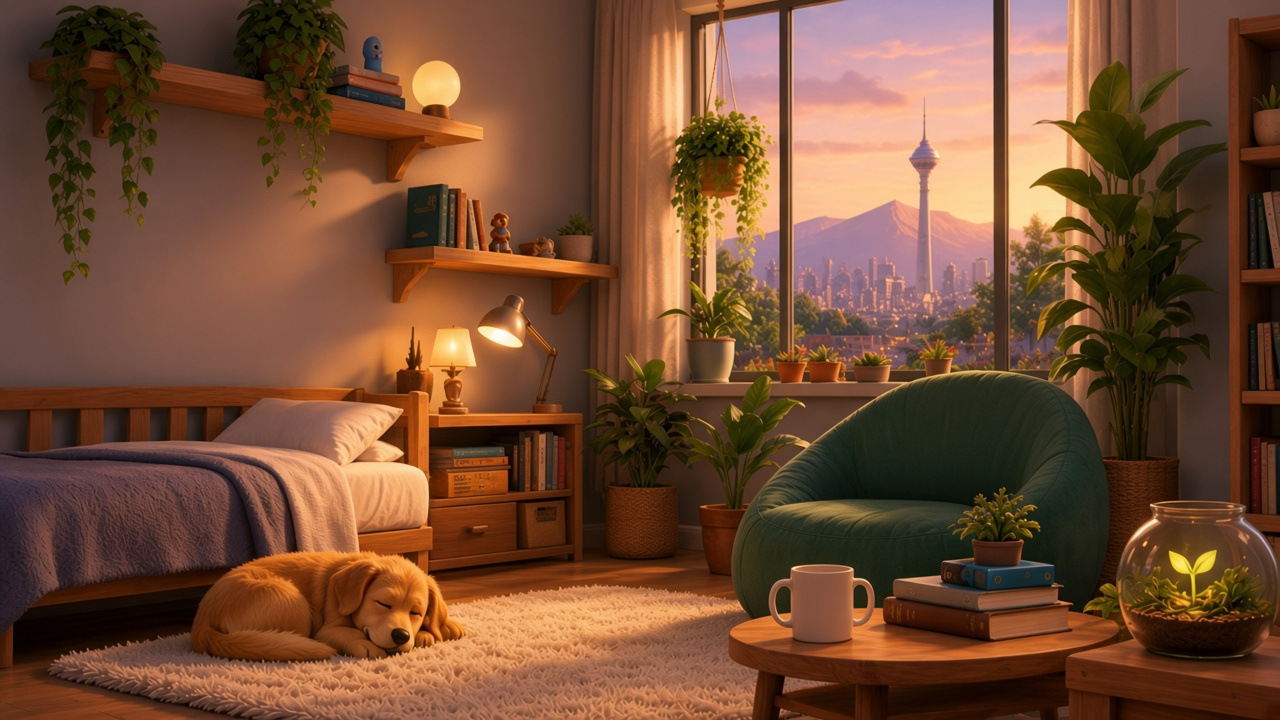
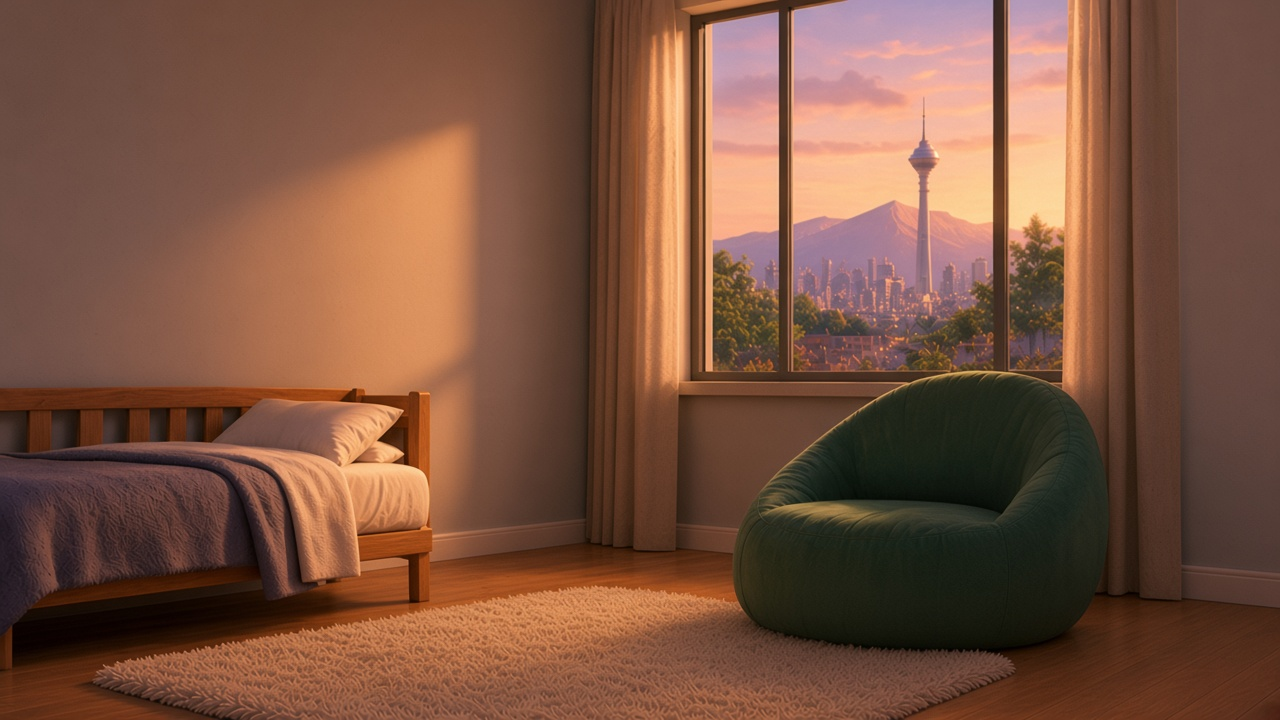
update 319

diff --git a/cpanel/assets/css/mana-path.css b/cpanel/assets/css/mana-path.css
@@ -54,16 +54,65 @@ body.mpath-app .flash {
 }
 .mr-full .mr-buddy {
   position: absolute;
-  left: 36%;
+  left: 30%;
   bottom: 4.5%;
   height: min(58vh, 500px);
   width: auto;
   max-width: 32%;
   object-fit: contain;
   object-position: bottom center;
-  z-index: 1;
+  z-index: 3;
   pointer-events: none;
   filter: drop-shadow(0 18px 22px rgba(20, 14, 8, .38));
+}
+.mr-props {
+  position: absolute;
+  inset: 0;
+  z-index: 2;
+  pointer-events: none;
+}
+.mr-prop {
+  position: absolute;
+  opacity: 0;
+  transform: scale(.94) translateY(8px);
+  transition: opacity .45s ease, transform .45s ease;
+  filter: drop-shadow(0 10px 14px rgba(20, 14, 8, .28));
+}
+.mr-prop.is-on {
+  opacity: 1;
+  transform: none;
+}
+.mr-prop--plant {
+  left: 2%;
+  top: 4%;
+  width: 30%;
+  z-index: 1;
+}
+.mr-prop--decor {
+  left: 16%;
+  top: 8%;
+  width: 20%;
+  z-index: 1;
+}
+.mr-prop--books {
+  right: .5%;
+  top: 14%;
+  height: 58%;
+  width: auto;
+  max-width: 16%;
+  z-index: 1;
+}
+.mr-prop--desk {
+  right: 14%;
+  bottom: 7%;
+  width: 27%;
+  z-index: 4;
+}
+.mr-prop--pet {
+  left: 12%;
+  bottom: 5%;
+  width: 26%;
+  z-index: 2;
 }
 .mr-full .mr-atmosphere {
   position: absolute;
@@ -201,7 +250,7 @@ body.mpath-app .flash {
 
 .mpath-mid {
   display: grid;
-  grid-template-columns: 196px minmax(0, 1fr) 248px;
+  grid-template-columns: 196px minmax(0, 1fr) 270px;
   gap: .7rem;
   align-items: stretch;
   min-height: 56vh;
@@ -368,61 +417,55 @@ body.mpath-app .flash {
 .mpath-intro { position: relative; z-index: 2; margin-top: 0; }
 
 .mpath-today {
-  background: linear-gradient(180deg, rgba(255,255,255,.96), rgba(232,242,236,.94));
+  background: linear-gradient(180deg, #fff, #f3faf6);
   color: #1d2a2e;
-  border-radius: 20px;
-  padding: .85rem .8rem;
+  border-radius: 24px;
+  padding: .9rem .85rem 1rem;
   align-self: center;
-  transform: perspective(860px) rotateY(-16deg) rotateZ(-3.5deg);
+  transform: perspective(920px) rotateY(-12deg);
   transform-origin: left center;
-  box-shadow: 14px 22px 36px rgba(0, 0, 0, .28);
+  box-shadow: 18px 22px 40px rgba(0, 0, 0, .28);
 }
 .mpath-today h2 {
-  margin: 0 0 .7rem;
-  font-size: 1rem;
+  margin: 0 0 .75rem;
+  font-size: 1.05rem;
 }
-.mpath-today ul { list-style: none; margin: 0; padding: 0; display: grid; gap: .45rem; }
+.mpath-today ul { list-style: none; margin: 0; padding: 0; display: grid; gap: .4rem; }
 .mpath-task {
   display: flex;
   align-items: center;
-  gap: .55rem;
+  gap: .6rem;
   width: 100%;
   border: 0;
   background: #fff;
   color: inherit;
   text-align: right;
   font: inherit;
-  border-radius: 14px;
-  padding: .5rem .55rem;
+  border-radius: 16px;
+  padding: .42rem .5rem;
   text-decoration: none;
   cursor: pointer;
   box-shadow: 0 4px 14px rgba(20, 40, 30, .06);
 }
 .mpath-task strong, .mpath-task small { display: block; }
-.mpath-task small { color: #6b7c82; font-size: .75rem; }
+.mpath-task strong { font-size: .88rem; }
+.mpath-task small { color: #6b7c82; font-size: .72rem; }
 .mpath-task.is-done { opacity: .62; }
 .mpath-task-ico {
-  width: 36px;
-  height: 36px;
-  border-radius: 12px;
+  width: 42px;
+  height: 42px;
+  border-radius: 50%;
   flex: 0 0 auto;
-  background: #d7f3ea center / 18px no-repeat;
-}
-.mpath-task-ico {
   display: grid;
   place-items: center;
   font-size: 1.05rem;
+  line-height: 1;
 }
 .mpath-task.teal .mpath-task-ico { background-color: #d7f3ea; }
-.mpath-task.teal .mpath-task-ico::before { content: "◉"; }
 .mpath-task.violet .mpath-task-ico { background-color: #e6e0fb; }
-.mpath-task.violet .mpath-task-ico::before { content: "✎"; }
 .mpath-task.mint .mpath-task-ico { background-color: #d8f0e4; }
-.mpath-task.mint .mpath-task-ico::before { content: "👟"; }
 .mpath-task.amber .mpath-task-ico { background-color: #fde7c8; }
-.mpath-task.amber .mpath-task-ico::before { content: "▶"; }
 .mpath-task.rose .mpath-task-ico { background-color: #f8d7e8; }
-.mpath-task.rose .mpath-task-ico::before { content: "♥"; }
 
 .mpath-floor {
   width: max-content;

diff --git a/cpanel/pages/patient/mana_path.php b/cpanel/pages/patient/mana_path.php
@@ -110,14 +110,14 @@ function mpath_step_url(string $tree, string $step, string $tab = 'path'): strin
 function mpath_task_meta(string $id): array
 {
     return match ($id) {
-        'breathe' => ['cls' => 'teal', 'hint' => '۴ دقیقه'],
-        'thoughts' => ['cls' => 'violet', 'hint' => '۲ دقیقه'],
-        'walk' => ['cls' => 'mint', 'hint' => '۱۰ دقیقه'],
-        'feelings' => ['cls' => 'violet', 'hint' => '۲ دقیقه'],
-        'assert' => ['cls' => 'amber', 'hint' => '۵ دقیقه'],
-        'sleep' => ['cls' => 'teal', 'hint' => 'امشب'],
-        'kind' => ['cls' => 'rose', 'hint' => '۱ دقیقه'],
-        default => ['cls' => 'teal', 'hint' => ''],
+        'breathe' => ['cls' => 'teal', 'hint' => '۴ دقیقه', 'ico' => '🧘'],
+        'thoughts' => ['cls' => 'violet', 'hint' => '۲ دقیقه', 'ico' => '📝'],
+        'walk' => ['cls' => 'mint', 'hint' => '۱۰ دقیقه', 'ico' => '👟'],
+        'feelings' => ['cls' => 'violet', 'hint' => '۳ دقیقه', 'ico' => '💜'],
+        'assert' => ['cls' => 'amber', 'hint' => '۵ دقیقه', 'ico' => '💬'],
+        'sleep' => ['cls' => 'teal', 'hint' => 'امشب', 'ico' => '🌙'],
+        'kind' => ['cls' => 'rose', 'hint' => '۱ دقیقه', 'ico' => '💗'],
+        default => ['cls' => 'teal', 'hint' => '', 'ico' => '✦'],
     };
 }
 
@@ -151,6 +151,12 @@ ob_start();
 <div class="mpath-shell" data-gender="<?= e($assets['gender']) ?>" data-mood="<?= (int) $moodNow ?>" data-state="<?= e($state) ?>">
   <div class="mr-full">
     <img class="mr-room" src="<?= e($assets['room']) ?>" alt="اتاق ذهن">
+    <div class="mr-props" aria-hidden="true">
+      <?php foreach ($unlocks as $u): ?>
+        <?php if (empty($u['prop'])) { continue; } ?>
+        <img class="mr-prop mr-prop--<?= e((string) $u['id']) ?><?= !empty($u['on']) ? ' is-on' : '' ?>" src="<?= e(mana_path_asset((string) $u['prop'])) ?>" alt="">
+      <?php endforeach; ?>
+    </div>
     <img class="mr-buddy" src="<?= e($assets['avatar']) ?>" alt="">
     <div class="mr-atmosphere" aria-hidden="true"></div>
   </div>
@@ -549,8 +555,8 @@ ob_start();
     </div>
 
     <?php if (!empty($profile['intro_done'])): ?>
-    <aside class="mpath-today" aria-label="ماموریتهای امروز">
-      <h2>ماموریتهای امروز</h2>
+    <aside class="mpath-today" aria-label="امروز چیکار کنیم">
+      <h2>امروز چیکار کنیم؟</h2>
       <ul>
         <?php foreach ($missions as $m): ?>
           <?php
@@ -559,17 +565,17 @@ ob_start();
           ?>
           <li>
             <a class="mpath-task <?= e($meta['cls']) ?><?= $ok ? ' is-done' : '' ?>" href="<?= e($mpathUrl . '?tab=practice&mission=' . rawurlencode((string) $m['id'])) ?>">
-              <span class="mpath-task-ico"></span>
+              <span class="mpath-task-ico" aria-hidden="true"><?= e($meta['ico']) ?></span>
               <span>
                 <strong><?= e((string) $m['title']) ?></strong>
-                <small><?= $ok ? 'انجام شد' : e($meta['hint']) ?> · +<?= e(to_fa_digits((string) ($m['xp'] ?? 0))) ?> XP</small>
+                <small><?= $ok ? 'انجام شد' : e($meta['hint']) ?></small>
               </span>
             </a>
           </li>
         <?php endforeach; ?>
         <li>
           <button type="button" class="mpath-task amber" data-mpath-sheet="workshops">
-            <span class="mpath-task-ico mpath-task-ico--play"></span>
+            <span class="mpath-task-ico" aria-hidden="true">▶</span>
             <span>
               <strong>ویدیوی آموزشی</strong>
               <small>۵ دقیقه</small>
@@ -578,7 +584,7 @@ ob_start();
         </li>
         <li>
           <button type="button" class="mpath-task rose" data-mpath-sheet="sessions">
-            <span class="mpath-task-ico mpath-task-ico--user"></span>
+            <span class="mpath-task-ico" aria-hidden="true">👤</span>
             <span>
               <strong>جلسه با درمانگر</strong>
               <small><?= $mpathAppointments === [] ? 'در صورت نیاز' : 'جلسههای ثبتشده' ?></small>

diff --git a/cpanel/includes/mana_path.php b/cpanel/includes/mana_path.php
@@ -239,7 +239,7 @@ function mana_path_set_gender(PDO $pdo, array &$profile, string $gender): void
 
 function mana_path_unlock_items(array $world): array
 {
-    // TEMP: preview all room items unlocked; restore thresholds after review.
+    // TEMP: keep items unlocked so room rewards can be reviewed; set false for live progression.
     $previewAllOn = true;
     $plant = (int) ($world['plant'] ?? 0);
     $desk = (int) ($world['desk'] ?? 0);
@@ -248,13 +248,13 @@ function mana_path_unlock_items(array $world): array
     $outfit = (int) ($world['outfit'] ?? 0);
     $items = [
         ['id' => 'room', 'label' => 'اتاق خواب', 'icon' => '🛏', 'on' => true],
-        ['id' => 'plant', 'label' => 'گیاه', 'icon' => '🪴', 'on' => $plant >= 20],
-        ['id' => 'desk', 'label' => 'میز کار', 'icon' => '🪑', 'on' => $desk >= 35],
-        ['id' => 'books', 'label' => 'کتابخانه', 'icon' => '📚', 'on' => $desk >= 55],
-        ['id' => 'decor', 'label' => 'دکور', 'icon' => '🎨', 'on' => $outfit >= 1 || $light >= 40],
+        ['id' => 'plant', 'label' => 'گیاه', 'icon' => '🪴', 'on' => $plant >= 20, 'prop' => 'prop-plant.png'],
+        ['id' => 'desk', 'label' => 'میز کار', 'icon' => '🪑', 'on' => $desk >= 35, 'prop' => 'prop-desk.png'],
+        ['id' => 'books', 'label' => 'کتابخانه', 'icon' => '📚', 'on' => $desk >= 55, 'prop' => 'prop-books.png'],
+        ['id' => 'decor', 'label' => 'دکور', 'icon' => '🎨', 'on' => $outfit >= 1 || $light >= 40, 'prop' => 'prop-decor.png'],
         ['id' => 'music', 'label' => 'موسیقی', 'icon' => '🎵', 'on' => $light >= 45],
         ['id' => 'window', 'label' => 'پنجره / منظره', 'icon' => '🪟', 'on' => $window >= 40 || $light >= 50],
-        ['id' => 'pet', 'label' => 'حیوان خانگی', 'icon' => '🐶', 'on' => $plant >= 50],
+        ['id' => 'pet', 'label' => 'حیوان خانگی', 'icon' => '🐶', 'on' => $plant >= 50, 'prop' => 'prop-pet.png'],
     ];
     if ($previewAllOn) {
         foreach ($items as &$item) {

diff --git a/cpanel/includes/mana_path_ui.php b/cpanel/includes/mana_path_ui.php
@@ -3,12 +3,12 @@ declare(strict_types=1);
 
 function mana_path_css_href(): string
 {
-    return url('/assets/css/mana-path.css') . '?v=20260923n';
+    return url('/assets/css/mana-path.css') . '?v=20260923p';
 }
 
 function mana_path_asset(string $file): string
 {
-    return url('/assets/img/mind-room/' . $file) . '?v=20260923j';
+    return url('/assets/img/mind-room/' . $file) . '?v=20260923p';
 }
 
 function mana_path_gender_assets(string $gender): array
@@ -37,6 +37,10 @@ function mana_path_room_html(array $profile, string $state): string
     ?>
     <section class="mr-stage" data-state="<?= e($state) ?>" data-gender="<?= e($assets['gender']) ?>" data-mood="<?= (int) $mood ?>" aria-label="اتاق ذهن">
       <img class="mr-bg" src="<?= e($assets['room']) ?>" alt="">
+      <?php foreach (mana_path_unlock_items($profile['world'] ?? []) as $u): ?>
+        <?php if (empty($u['prop'])) { continue; } ?>
+        <img class="mr-prop mr-prop--<?= e((string) $u['id']) ?><?= !empty($u['on']) ? ' is-on' : '' ?>" src="<?= e(mana_path_asset((string) $u['prop'])) ?>" alt="">
+      <?php endforeach; ?>
       <img class="mr-buddy" src="<?= e($assets['avatar']) ?>" alt="">
     </section>
     <?php
